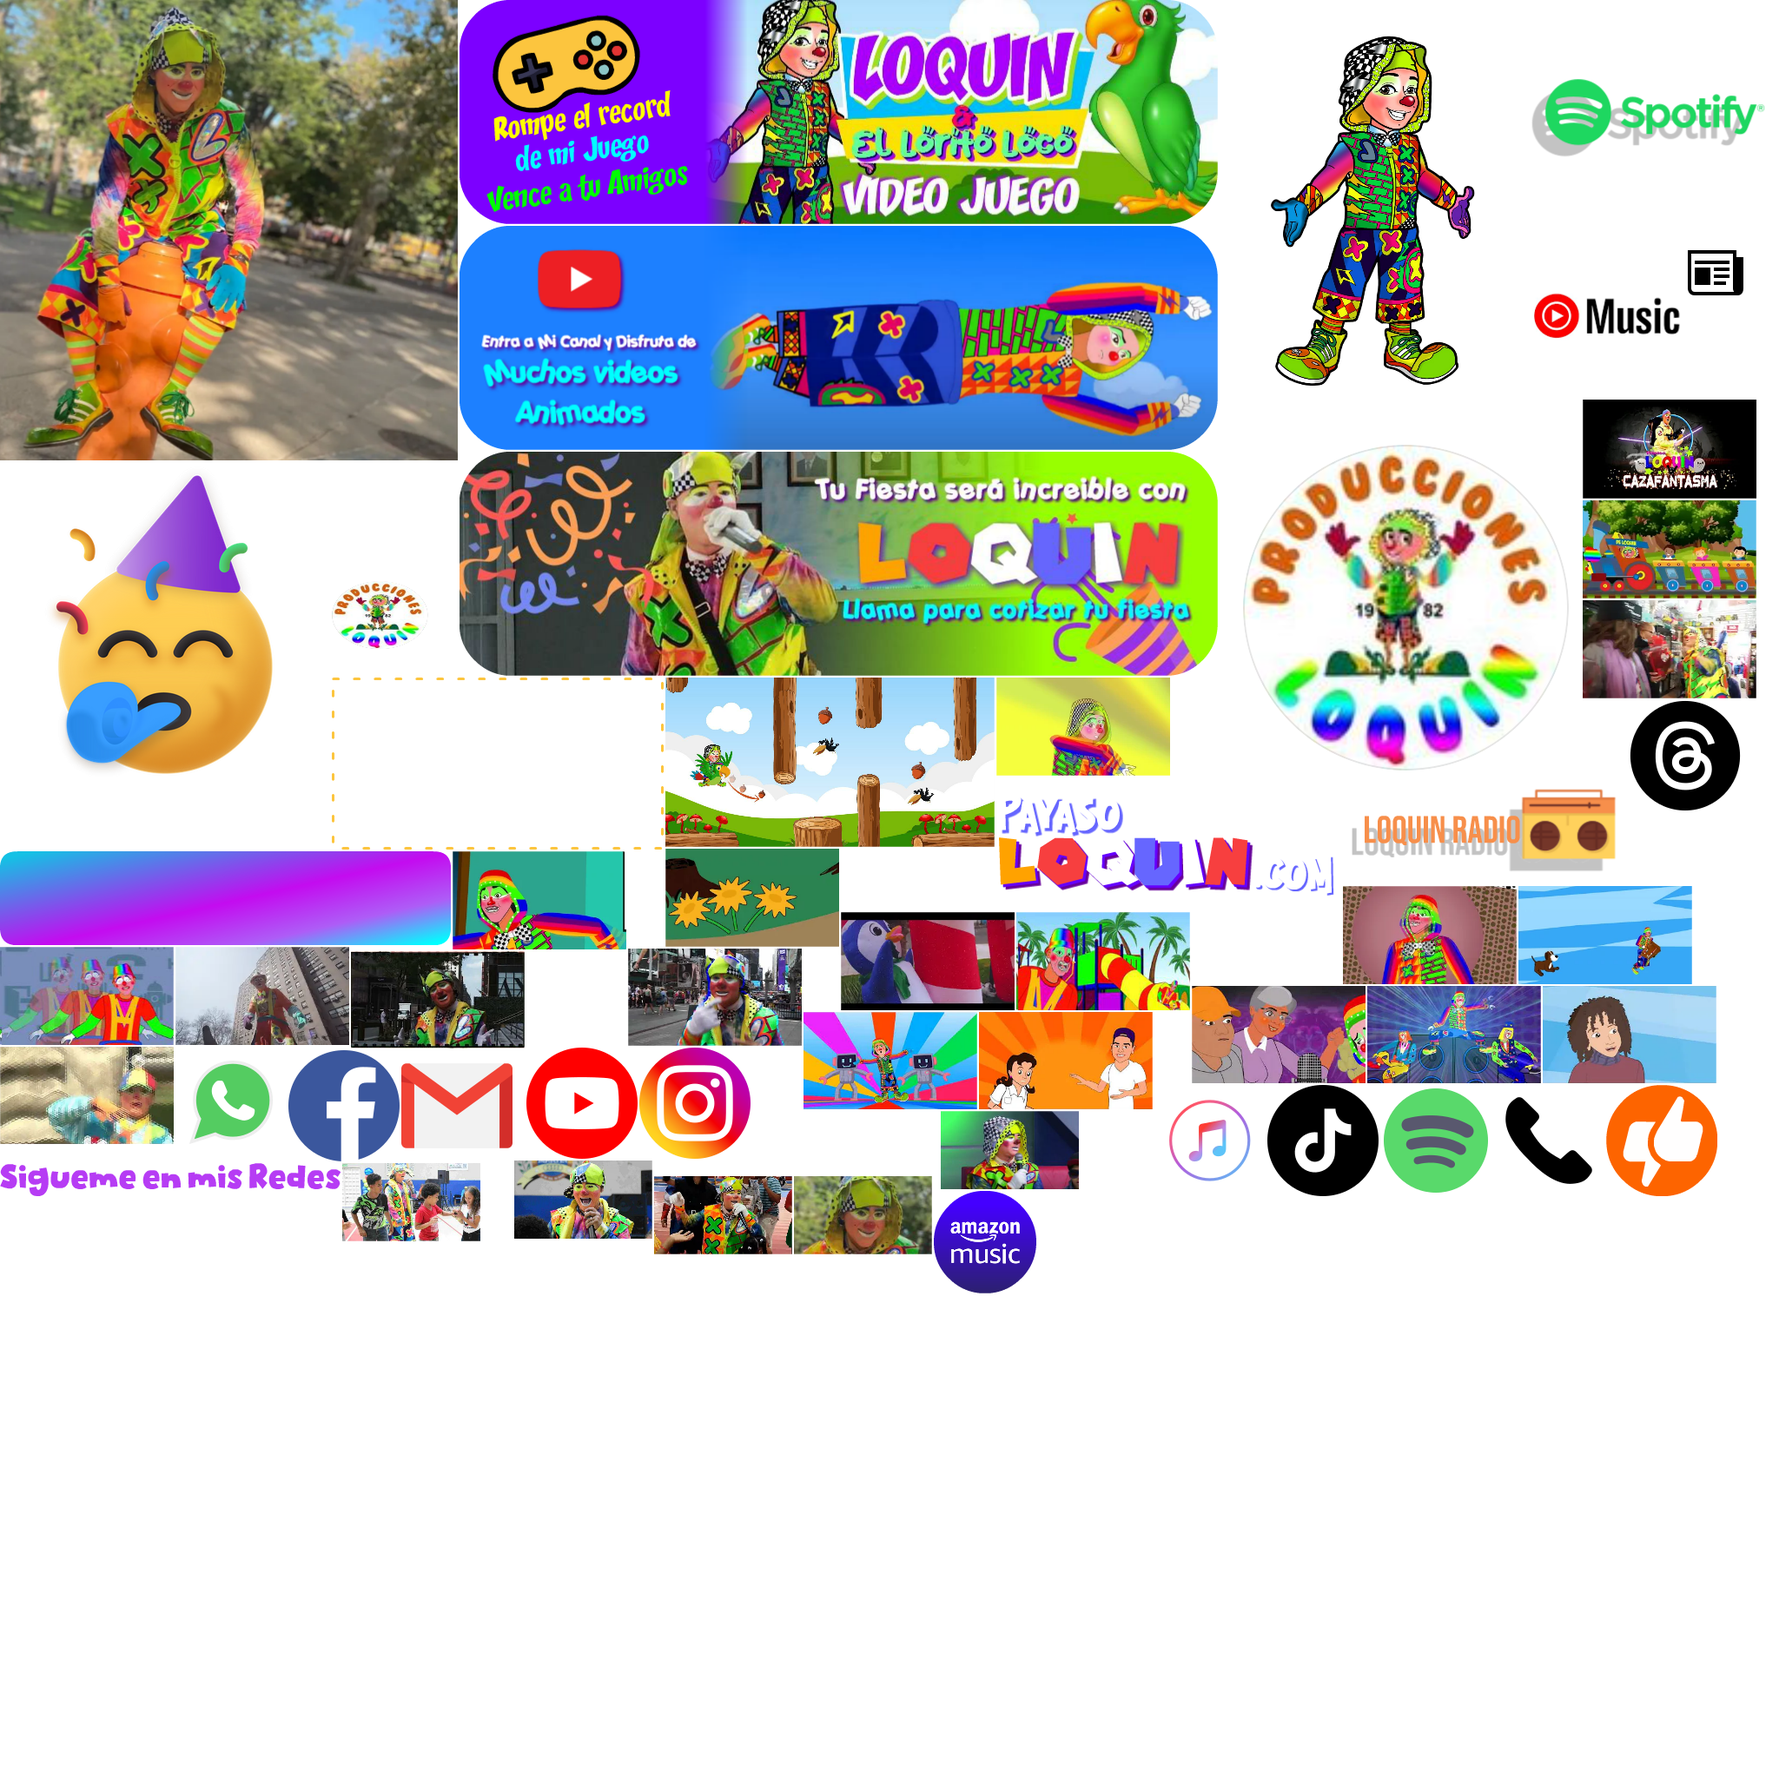
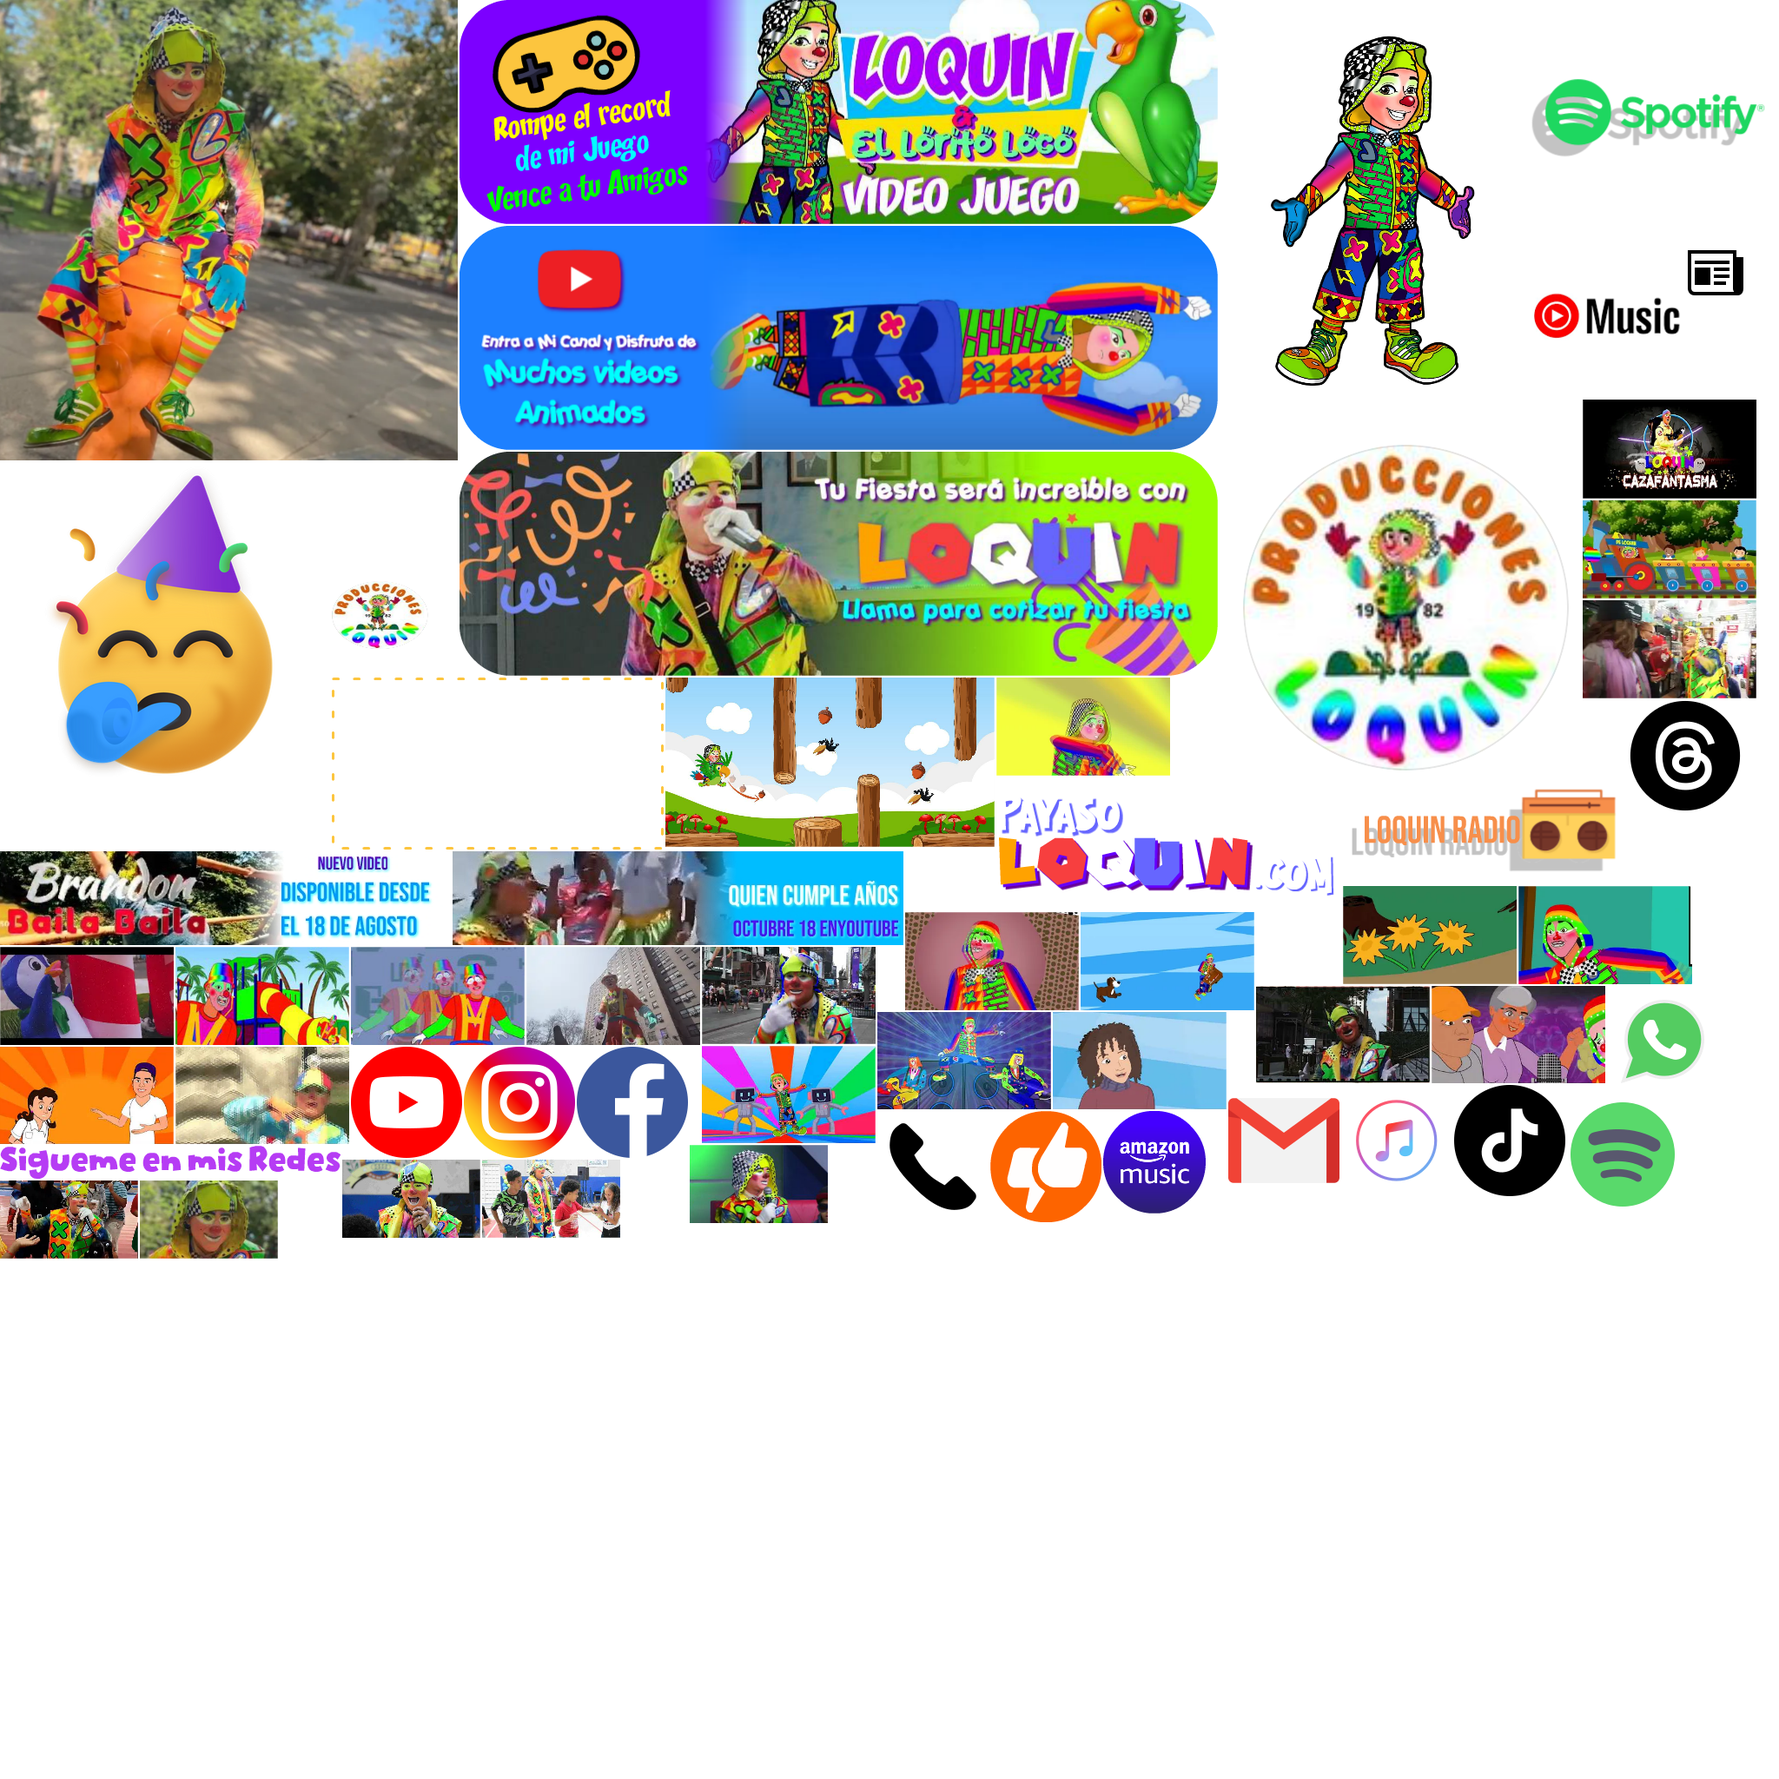
Add files via upload

Changed region(s): [[0.0, 0.4688, 0.9688, 0.75]]

diff --git a/loquinweb/Loquin Pagina Web.js b/loquinweb/Loquin Pagina Web.js
@@ -3,7 +3,7 @@
 var p; // shortcut to reference prototypes
 var lib={};var ss={};var img={};
 lib.ssMetadata = [
-		{name:"Loquin Pagina Web_atlas_1", frames: [[1943,276,64,64],[1876,806,128,128],[202,1205,128,128],[606,1206,128,128],[736,1206,128,128],[332,1209,128,128],[462,1209,128,128],[1329,1249,128,128],[1459,1249,128,128],[1589,1249,128,128],[0,532,380,380],[1719,1249,128,128],[1849,1249,128,128],[866,1279,215,73],[1404,0,353,500],[1546,903,328,115],[1759,0,278,274],[0,1339,392,38],[0,980,519,108],[1147,903,397,145],[1083,1279,159,90],[592,1336,159,90],[394,1339,159,90],[753,1354,159,90],[382,532,135,135],[914,1354,159,90],[0,0,527,530],[529,0,873,258],[529,260,873,258],[529,520,873,258],[1822,576,200,113],[1943,342,38,67],[766,780,379,195],[382,780,382,198],[1822,691,200,113],[1147,780,200,113],[766,977,200,113],[723,1092,200,112],[404,1095,200,112],[1822,460,200,114],[1372,1135,200,112],[1574,1135,200,112],[1776,1135,200,112],[521,980,200,113],[0,914,232,23],[1546,1020,200,113],[1748,1020,200,113],[925,1165,200,112],[968,1050,200,113],[1170,1050,200,113],[0,1090,200,113],[1127,1165,200,112],[202,1090,200,113],[0,1205,200,112],[1075,1371,118,118],[1759,276,182,182],[382,669,111,78],[1404,502,416,399]]}
+		{name:"Loquin Pagina Web_atlas_1", frames: [[1943,276,64,64],[1876,806,128,128],[1850,1135,128,128],[404,1205,128,128],[534,1205,128,128],[664,1205,128,128],[1414,1249,128,128],[1544,1249,128,128],[1674,1249,128,128],[1804,1265,128,128],[0,532,380,380],[1010,1279,128,128],[0,980,519,108],[521,980,519,108],[1140,1279,128,128],[1404,0,353,500],[1546,903,328,115],[1759,0,278,274],[0,1319,392,38],[1147,903,397,145],[794,1318,159,90],[394,1335,159,90],[555,1335,159,90],[0,1359,159,90],[382,532,135,135],[161,1359,159,90],[0,0,527,530],[529,0,873,258],[529,260,873,258],[529,520,873,258],[1822,576,200,113],[1943,342,38,67],[766,780,379,195],[382,780,382,198],[1822,691,200,113],[1147,780,200,113],[1546,1020,200,113],[808,1090,200,112],[1446,1135,200,112],[1822,460,200,114],[1648,1135,200,112],[1010,1165,200,112],[1212,1165,200,112],[1748,1020,200,113],[0,914,232,23],[1042,1050,200,113],[1244,1050,200,113],[808,1204,200,112],[0,1090,200,113],[202,1090,200,113],[404,1090,200,113],[0,1205,200,112],[606,1090,200,113],[202,1205,200,112],[1270,1279,118,118],[1759,276,182,182],[382,669,111,78],[1404,502,416,399]]}
 ];
 
 
@@ -111,49 +111,49 @@ lib.ssMetadata = [
 
 
 
-(lib.Mapadebits14 = function() {
+(lib.BANNER1 = function() {
 	this.initialize(ss["Loquin Pagina Web_atlas_1"]);
 	this.gotoAndStop(12);
 }).prototype = p = new cjs.Sprite();
 
 
 
-(lib.Mapadebits16 = function() {
+(lib.BANNER2 = function() {
 	this.initialize(ss["Loquin Pagina Web_atlas_1"]);
 	this.gotoAndStop(13);
 }).prototype = p = new cjs.Sprite();
 
 
 
-(lib.Mapadebits17 = function() {
+(lib.Mapadebits14 = function() {
 	this.initialize(ss["Loquin Pagina Web_atlas_1"]);
 	this.gotoAndStop(14);
 }).prototype = p = new cjs.Sprite();
 
 
 
-(lib.Mapadebits20 = function() {
+(lib.Mapadebits17 = function() {
 	this.initialize(ss["Loquin Pagina Web_atlas_1"]);
 	this.gotoAndStop(15);
 }).prototype = p = new cjs.Sprite();
 
 
 
-(lib.Mapadebits21 = function() {
+(lib.Mapadebits20 = function() {
 	this.initialize(ss["Loquin Pagina Web_atlas_1"]);
 	this.gotoAndStop(16);
 }).prototype = p = new cjs.Sprite();
 
 
 
-(lib.Mapadebits26 = function() {
+(lib.Mapadebits21 = function() {
 	this.initialize(ss["Loquin Pagina Web_atlas_1"]);
 	this.gotoAndStop(17);
 }).prototype = p = new cjs.Sprite();
 
 
 
-(lib.Mapadebits27 = function() {
+(lib.Mapadebits26 = function() {
 	this.initialize(ss["Loquin Pagina Web_atlas_1"]);
 	this.gotoAndStop(18);
 }).prototype = p = new cjs.Sprite();
@@ -447,6 +447,48 @@ function getMCSymbolPrototype(symbol, nominalBounds, frameBounds) {
 	prototype.frameBounds = frameBounds;
 	return prototype;
 	}
+
+
+(lib.Símbolo149 = function(mode,startPosition,loop,reversed) {
+if (loop == null) { loop = true; }
+if (reversed == null) { reversed = false; }
+	var props = new Object();
+	props.mode = mode;
+	props.startPosition = startPosition;
+	props.labels = {};
+	props.loop = loop;
+	props.reversed = reversed;
+	cjs.MovieClip.apply(this,[props]);
+
+	// Capa_1
+	this.instance = new lib.BANNER2();
+
+	this.timeline.addTween(cjs.Tween.get(this.instance).wait(1));
+
+	this._renderFirstFrame();
+
+}).prototype = getMCSymbolPrototype(lib.Símbolo149, new cjs.Rectangle(0,0,519,108), null);
+
+
+(lib.Símbolo148 = function(mode,startPosition,loop,reversed) {
+if (loop == null) { loop = true; }
+if (reversed == null) { reversed = false; }
+	var props = new Object();
+	props.mode = mode;
+	props.startPosition = startPosition;
+	props.labels = {};
+	props.loop = loop;
+	props.reversed = reversed;
+	cjs.MovieClip.apply(this,[props]);
+
+	// Capa_1
+	this.instance = new lib.BANNER1();
+
+	this.timeline.addTween(cjs.Tween.get(this.instance).wait(1));
+
+	this._renderFirstFrame();
+
+}).prototype = getMCSymbolPrototype(lib.Símbolo148, new cjs.Rectangle(0,0,519,108), null);
 
 
 (lib.Símbolo145 = function(mode,startPosition,loop,reversed) {
@@ -2239,31 +2281,6 @@ if (reversed == null) { reversed = false; }
 }).prototype = getMCSymbolPrototype(lib.Symbol17, new cjs.Rectangle(-610.1,-41.7,1220.3000000000002,652.8000000000001), null);
 
 
-(lib.Símbolo16 = function(mode,startPosition,loop,reversed) {
-if (loop == null) { loop = true; }
-if (reversed == null) { reversed = false; }
-	var props = new Object();
-	props.mode = mode;
-	props.startPosition = startPosition;
-	props.labels = {};
-	props.loop = loop;
-	props.reversed = reversed;
-	cjs.MovieClip.apply(this,[props]);
-
-	// Capa_1
-	this.instance = new lib.Mapadebits16();
-	this.instance.setTransform(145,9);
-
-	this.instance_1 = new lib.Mapadebits27();
-	this.instance_1.setTransform(0,-9);
-
-	this.timeline.addTween(cjs.Tween.get({}).to({state:[{t:this.instance_1},{t:this.instance}]}).wait(1));
-
-	this._renderFirstFrame();
-
-}).prototype = getMCSymbolPrototype(lib.Símbolo16, new cjs.Rectangle(0,-9,519,108), null);
-
-
 (lib.Símbolo10copia2 = function(mode,startPosition,loop,reversed) {
 if (loop == null) { loop = true; }
 if (reversed == null) { reversed = false; }
@@ -3723,10 +3740,10 @@ if (reversed == null) { reversed = false; }
 		this.contador2.text = String(Number(this.dia.text) * Number(24));
 		this.contador3.text = String(Number(this.ano.text) * Number(8640));
 		
-		this.contadortotal.text = String(Number(this.contador3.text) + Number(this.contador1.text) + Number(this.contador2.text) + Number(this.hora.text)- Number(17484400) );
+		this.contadortotal.text = String(Number(this.contador3.text) + Number(this.contador1.text) + Number(this.contador2.text) + Number(this.hora.text)- Number(17484550) );
 	}
 	this.frame_164 = function() {
-		this.contadortotal2.text = String(Number(this.contadortotal.text) * Number(2));
+		this.contadortotal2.text = String(Number(this.contadortotal.text) * Number(3));
 		
 		this.stop();
 	}
@@ -4690,7 +4707,7 @@ if (reversed == null) { reversed = false; }
 p.nominalBounds = new cjs.Rectangle(-15.1,-348.6,901.4,605.1);
 
 
-(lib.Símbolo16_1 = function(mode,startPosition,loop,reversed) {
+(lib.Símbolo16 = function(mode,startPosition,loop,reversed) {
 if (loop == null) { loop = true; }
 if (reversed == null) { reversed = false; }
 	var props = new Object();
@@ -4702,15 +4719,15 @@ if (reversed == null) { reversed = false; }
 	cjs.MovieClip.apply(this,[props]);
 
 	// Capa_1
-	this.instance_2 = new lib.Símbolo52();
-	this.instance_2.setTransform(477.5,52.6,1,1,0,0,0,477.5,52.6);
-	this.instance_2.cache(-2,-2,959,112);
+	this.instance = new lib.Símbolo52();
+	this.instance.setTransform(477.5,52.6,1,1,0,0,0,477.5,52.6);
+	this.instance.cache(-2,-2,959,112);
 
-	this.timeline.addTween(cjs.Tween.get(this.instance_2).wait(1));
+	this.timeline.addTween(cjs.Tween.get(this.instance).wait(1));
 
 	this._renderFirstFrame();
 
-}).prototype = getMCSymbolPrototype(lib.Símbolo16_1, new cjs.Rectangle(0,0,955,107.7), null);
+}).prototype = getMCSymbolPrototype(lib.Símbolo16, new cjs.Rectangle(0,0,955,107.7), null);
 
 
 (lib.Símbolo11 = function(mode,startPosition,loop,reversed) {
@@ -4965,6 +4982,122 @@ if (reversed == null) { reversed = false; }
 	this._renderFirstFrame();
 
 }).prototype = getMCSymbolPrototype(lib.Symbol107, new cjs.Rectangle(-130.9,-100.6,273.5,224.5), null);
+
+
+(lib.Símbolo16_1 = function(mode,startPosition,loop,reversed) {
+if (loop == null) { loop = true; }
+if (reversed == null) { reversed = false; }
+	var props = new Object();
+	props.mode = mode;
+	props.startPosition = startPosition;
+	props.labels = {};
+	props.loop = loop;
+	props.reversed = reversed;
+	cjs.MovieClip.apply(this,[props]);
+
+	// timeline functions:
+	this.frame_0 = function() {
+		this.stop();
+		
+		// Inicializar el contador en 0
+		var contador = 0;
+		
+		// Guardar el identificador del intervalo
+		var intervalo;
+		
+		// Función para actualizar el contador cada segundo
+		function actualizarContador() {
+		  // Aumentar el contador en 1
+		  contador += 1;
+		
+		  // Actualizar el campo de texto dinámico con el nuevo valor del contador
+		  this.contador.text = contador;
+		
+		  // Verificar si el contador ha llegado a 100
+		  if (contador >= 8) {
+			  
+		  
+		    clearInterval(intervalo);
+		    this.play();
+		  }
+		}
+		
+		// Llamar a la función actualizarContador cada segundo (1000 milisegundos)
+		intervalo = setInterval(actualizarContador.bind(this), 1000);
+		
+		
+		this.baner1.addEventListener("click", fl_ClickToGoToWebPage1);
+		
+		function fl_ClickToGoToWebPage1() {
+			window.open("/video1.mp4", "_blank");
+		}
+	}
+	this.frame_1 = function() {
+		this.stop();
+		
+		// Inicializar el contador en 0
+		var contador = 0;
+		
+		// Guardar el identificador del intervalo
+		var intervalo;
+		
+		// Función para actualizar el contador cada segundo
+		function actualizarContador() {
+		  // Aumentar el contador en 1
+		  contador += 1;
+		
+		  // Actualizar el campo de texto dinámico con el nuevo valor del contador
+		  this.contador.text = contador;
+		
+		  // Verificar si el contador ha llegado a 100
+		  if (contador >= 8) {
+			  
+		  
+		    clearInterval(intervalo);
+		    this.play();
+		  }
+		}
+		
+		// Llamar a la función actualizarContador cada segundo (1000 milisegundos)
+		intervalo = setInterval(actualizarContador.bind(this), 1000);
+		
+		
+		this.baner2.addEventListener("click", fl_ClickToGoToWebPage2);
+		
+		function fl_ClickToGoToWebPage2() {
+			window.open("/video2.mp4", "_blank");
+		}
+	}
+
+	// actions tween:
+	this.timeline.addTween(cjs.Tween.get(this).call(this.frame_0).wait(1).call(this.frame_1).wait(1));
+
+	// Capa_2
+	this.contador = new cjs.Text("0", "bold 19px 'Arial'", "#FFFFFF");
+	this.contador.name = "contador";
+	this.contador.textAlign = "center";
+	this.contador.lineHeight = 23;
+	this.contador.lineWidth = 32;
+	this.contador.parent = this;
+	this.contador.setTransform(-156.9,-25.55);
+
+	this.timeline.addTween(cjs.Tween.get(this.contador).wait(2));
+
+	// Capa_1
+	this.baner1 = new lib.Símbolo148();
+	this.baner1.name = "baner1";
+	this.baner1.setTransform(259.5,45,1,1,0,0,0,259.5,54);
+
+	this.baner2 = new lib.Símbolo149();
+	this.baner2.name = "baner2";
+	this.baner2.setTransform(259.5,45,1,1,0,0,0,259.5,54);
+
+	this.timeline.addTween(cjs.Tween.get({}).to({state:[{t:this.baner1}]}).to({state:[{t:this.baner2}]},1).wait(1));
+
+	this._renderFirstFrame();
+
+}).prototype = p = new cjs.MovieClip();
+p.nominalBounds = new cjs.Rectangle(-175,-27.5,694,126.5);
 
 
 (lib.Símbolo111 = function(mode,startPosition,loop,reversed) {
@@ -14393,11 +14526,11 @@ if (reversed == null) { reversed = false; }
 	this.timeline.addTween(cjs.Tween.get(this.instance_3).wait(45).to({_off:false},0).to({x:111.1},112,cjs.Ease.get(1)).wait(1).to({regX:520.5,regY:101.5,x:944.5,y:938.5},0).wait(48).to({regX:0,regY:0.1,x:111.1,y:776.15},0).wait(1).to({regX:520.5,regY:101.5,x:944.5,y:938.5},0).wait(36).to({regX:0,regY:0.1,x:111.1,y:776.15},0).to({x:-1762.9},65,cjs.Ease.get(-1)).wait(1).to({regX:520.5,regY:101.5,x:-929.5,y:938.5},0).wait(25).to({regX:0,regY:0.1,x:-1762.9,y:776.15},0).wait(1).to({regX:520.5,regY:101.5,x:-929.5,y:938.5},0).wait(19).to({regX:0,regY:0.1,x:-1762.9,y:776.15},0).wait(1));
 
 	// Símbolo_16
-	this.instance_4 = new lib.Símbolo16();
+	this.instance_4 = new lib.Símbolo16_1();
 	this.instance_4.setTransform(-722.9,601.65,1.2468,1.2468);
 	this.instance_4._off = true;
 
-	this.timeline.addTween(cjs.Tween.get(this.instance_4).wait(84).to({_off:false},0).to({x:207.1},59,cjs.Ease.get(1)).wait(1).to({regX:259.5,regY:45,x:530.65,y:657.75},0).wait(62).to({regX:0,regY:0,x:207.1,y:601.65},0).wait(1).to({regX:259.5,regY:45,x:530.65,y:657.75},0).wait(23).to({regX:0,regY:0,x:207.1,y:601.65},0).to({x:-722.9},65,cjs.Ease.get(-1)).wait(1).to({regX:259.5,regY:45,x:-399.35,y:657.75},0).wait(38).to({regX:0,regY:0,x:-722.9,y:601.65},0).to({_off:true},1).wait(20));
+	this.timeline.addTween(cjs.Tween.get(this.instance_4).wait(84).to({_off:false},0).to({x:207.1},59,cjs.Ease.get(1)).wait(1).to({regX:173,regY:36.7,x:422.8,y:647.4},0).wait(62).to({regX:0,regY:0,x:207.1,y:601.65},0).wait(1).to({regX:173,regY:36.7,x:422.8,y:647.4},0).wait(23).to({regX:0,regY:0,x:207.1,y:601.65},0).to({x:-722.9},65,cjs.Ease.get(-1)).wait(1).to({regX:173,regY:36.7,x:-507.2,y:647.4},0).wait(38).to({regX:0,regY:0,x:-722.9,y:601.65},0).to({_off:true},1).wait(20));
 
 	// Símbolo_19
 	this.instance_5 = new lib.Símbolo19();
@@ -14477,7 +14610,7 @@ if (reversed == null) { reversed = false; }
 	this.timeline.addTween(cjs.Tween.get(this.instance_1).wait(74).to({_off:false},0).to({y:1479.25},47,cjs.Ease.get(1)).wait(1));
 
 	// Símbolo_16
-	this.instance_2 = new lib.Símbolo16_1();
+	this.instance_2 = new lib.Símbolo16();
 	this.instance_2.setTransform(475.75,2036.45,0.9947,1.4139,0,0,0,476.9,105.2);
 	this.instance_2._off = true;
 
@@ -14575,7 +14708,7 @@ lib.properties = {
 	color: "#FFFFFF",
 	opacity: 1.00,
 	manifest: [
-		{src:"images/Loquin Pagina Web_atlas_1.png?1691165341996", id:"Loquin Pagina Web_atlas_1"}
+		{src:"images/Loquin Pagina Web_atlas_1.png?1692201452847", id:"Loquin Pagina Web_atlas_1"}
 	],
 	preloads: []
 };

diff --git a/loquinweb/index.html b/loquinweb/index.html
@@ -21,7 +21,7 @@
   }
 </style>
 <script src="https://code.createjs.com/1.0.0/createjs.min.js"></script>
-<script src="Loquin Pagina Web.js?1691165346045"></script>
+<script src="Loquin Pagina Web.js?1692201457637"></script>
 <script>
 var canvas, stage, exportRoot, anim_container, dom_overlay_container, fnStartAnimation;
 function init() {
@@ -74,6 +74,6 @@ function handleComplete(evt,comp) {
 		<div id="dom_overlay_container" style="pointer-events:none; overflow:hidden; width:950px; height:1700px; position: absolute; left: 0px; top: 0px; display: none;">
 		</div>
 	</div>
-    <div id='_preload_div_' style='position:absolute; top:0; left:0; display: inline-block; height:1700px; width: 950px; text-align: center;'>	<span style='display: inline-block; height: 100%; vertical-align: middle;'></span>	<img src=images/preloader.gif?1691165346045 style='vertical-align: middle; max-height: 100%'/></div>
+    <div id='_preload_div_' style='position:absolute; top:0; left:0; display: inline-block; height:1700px; width: 950px; text-align: center;'>	<span style='display: inline-block; height: 100%; vertical-align: middle;'></span>	<img src=images/_preloader.gif?1692201457638 style='vertical-align: middle; max-height: 100%'/></div>
 </body>
 </html>
